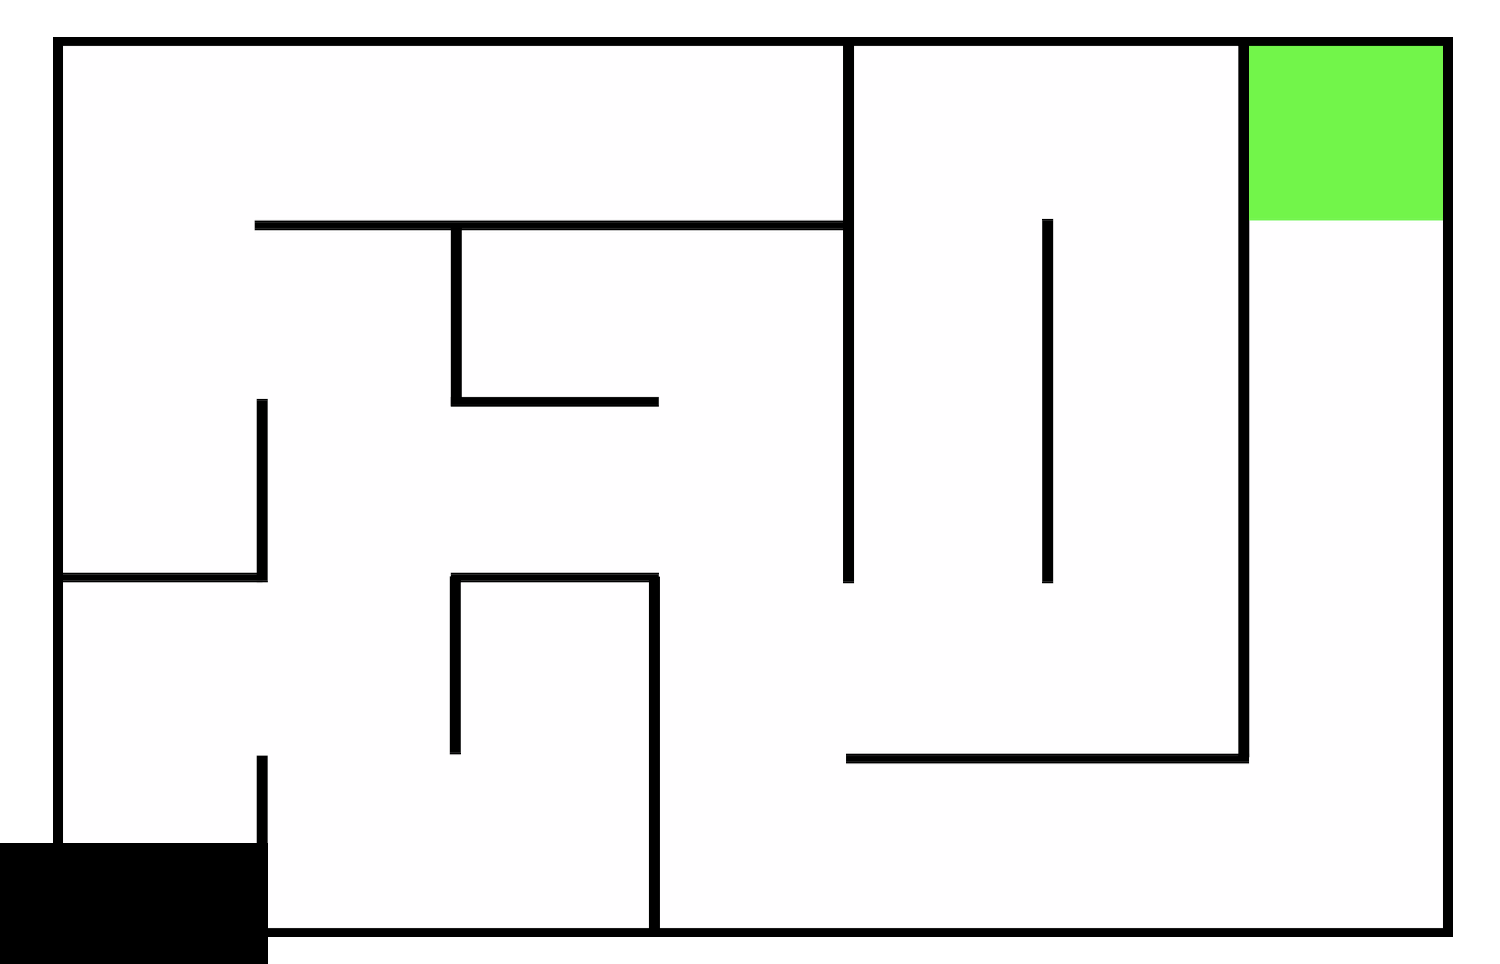
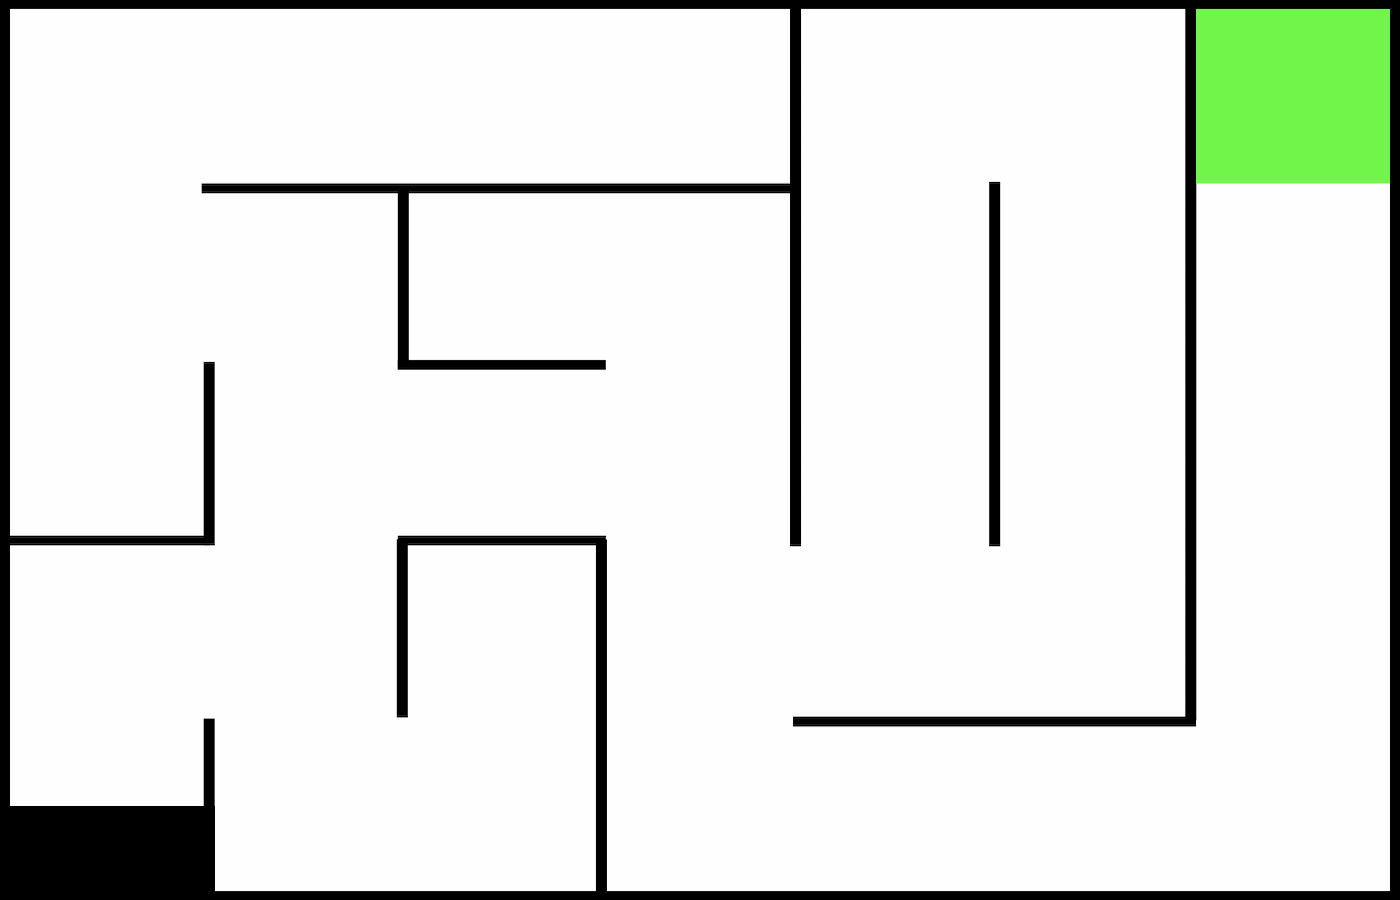
resizing levels almost works

Changed region(s): [[0.0, 0.0, 1.0, 1.0], [0.6757, 0.1867, 0.7371, 0.6222]]

diff --git a/main.py b/main.py
@@ -22,18 +22,11 @@ Width, Height = 1400, 900
 Window = pygame.display.set_mode((Width, Height))
 pygame.display.set_caption("qwack")
 
-
 # move to Level.py
 # duck_image = pygame.image.load('duck.png')  # reference for turret later
 
 def scale_bg(image, window_width, window_height):
-    button_x = int(0.3 * window_width)
-    button_y = int(0.2 * window_height)
-    button_width = int(0.15 * window_width)
-    button_height = int(0.06 * window_height)
-
-    return pygame.transform.scale(image, (window_width, window_height)), button_x, button_y, button_width, button_height
-
+    return pygame.transform.scale(image, (window_width, window_height))
 
 #
 # -----------------------------------------------------------------------------------------------------------------
@@ -42,10 +35,8 @@ def scale_bg(image, window_width, window_height):
 # level selector functions
 def level1():
     print("Level 1 selected")
-    global levela
     global level
     level = Level(1)
-    levela = 1
 
     # testing purposes
     print('img', level.bg)
@@ -55,18 +46,15 @@ def level1():
     print('obstaclelist', level.obstacle_data)
     loadLevel()  # activate the loading screen sequence fade to white
 
-def level2():
-    print("Level 2 selected")
+def levels(level: int):
+    print(f"Level {level} selected")
 
-
-def level3():
-    print("Level 3 selected")
 
 # change screen size
 def screensmall():
     global size, Width, Height, Window
     size = 'small'
-    Width, Height = 1200, 836
+    Width, Height = 1200, 771
     Window = pygame.display.set_mode((Width, Height))
     for i, button in enumerate(buttons):
         button.width = 160
@@ -77,6 +65,7 @@ def screensmall():
             break  # don't reposition screen size buttons
 
 def screenbig():
+
     global size, Width, Height, Window
     size = 'big'
     Width, Height = 1400, 900
@@ -94,7 +83,7 @@ def screenbig():
 # -----------------------------------------------------------------------------------------------------------------
 #
 
-# loading screenx`
+# loading screen
 def loadLevel():
     for i in range(0, 255, 14):  # fade to white since maze is in (vomit) light mode
         Window.fill((i, i, i))
@@ -108,8 +97,8 @@ def loadLevel():
 # initializing buttons
 
 buttons = [Button("Level 1", 120, 220, 200, 50, level1, is_level=True),
-           Button("Level 2", 120, 310, 200, 50, level2, is_level=True),
-           Button("Level 3", 120, 400, 200, 50, level3, is_level=True),
+           Button("Level 2", 120, 310, 200, 50, lambda:levels(2), is_level=True),
+           Button("Level 3", 120, 400, 200, 50, lambda:levels(3), is_level=True),
            Button('small', 400, 100, 200, 50, screensmall, is_level=False),
            Button('big', 700, 100, 200, 50, screenbig, is_level=False)]
 
@@ -129,7 +118,7 @@ FONT2 = pygame.font.Font(None, 24)  # None means default font
 
 def rendertext():
     quacker = FONT.render("quacker", True, "white")  # defining each font
-    desc = FONT2.render("a game by ayaka umbrella fans", True, "grey")
+    desc = FONT2.render("By ayaka umbrella fans— Amanda and Emilia", True, "grey")
     SR = FONT2.render("select screen size", True, "grey")
 
     Window.blit(quacker, (10, 10))  # display text
@@ -144,7 +133,8 @@ def rendertext():
 # Initialize the level
 level = None
 # main game logic, while loop to run everything
-levela = None
+size = 'big'
+
 
 def main():
     bulletslaunched = 0
@@ -184,7 +174,7 @@ def main():
         mouse_pos = pygame.mouse.get_pos()
         if gamemode == 1:  # in the game
             speedmultiplier = 10  # can change!!
-            level.draw(Window)
+            level.draw(Window, size)
 
             # for bullet in Level.bullets:
             #     if bullet.win:

diff --git a/Bullet.py b/Bullet.py
@@ -56,19 +56,24 @@ class Bullet:
         self.x += self.speed_x
         self.y += self.speed_y
 
-    #change collides to bounding box way more efficient
     def collides(self, screen, new_x, new_y):
-        for i in range(int(self.RADIUS/3), self.RADIUS):
-            for j in range(int(self.RADIUS/3), self.RADIUS): #o(n^2) algorithm inneficient :nerd:
-                if (math.sqrt((self.RADIUS - i) ** 2 + (self.RADIUS - j) ** 2)) <= self.RADIUS:
-                    clr = screen.get_at((round(new_x - self.RADIUS + i), round(new_y - self.RADIUS + j)))
-                    if clr == (0, 0, 0):  # Check if the color is black
-                        pygame.mixer.Sound.play(bounce) #this sound gets anoying as shit very fast find another or no sound at all?
-                        pygame.mixer.music.stop()
-                        return True
-                    if clr == (114, 245, 74): #check if bullet touches ending square = win
-                        self.win = True
-                        print('win!!!! :DDD')
+        r_sq = self.RADIUS ** 2
+        for i in range(int(self.RADIUS / 3), self.RADIUS):
+            for j in range(int(self.RADIUS / 3), self.RADIUS):
+                dx = self.RADIUS - i
+                dy = self.RADIUS - j
+                if dx * dx + dy * dy <= r_sq:
+                    px = round(new_x - self.RADIUS + i)
+                    py = round(new_y - self.RADIUS + j)
+                    if 0 <= px < screen.get_width() and 0 <= py < screen.get_height():
+                        clr = screen.get_at((px, py))
+                        if clr == (0, 0, 0):  # Check if the color is black
+                            pygame.mixer.Sound.play(bounce) #this sound gets anoying as shit very fast find another or no sound at all?
+                            pygame.mixer.music.stop()
+                            return True
+                        if clr == (114, 245, 74): #check if bullet touches ending square = win
+                            self.win = True
+                            print('win!!!! :DDD')
         return False
 
     def draw(self, screen):

diff --git a/Level.py b/Level.py
@@ -21,7 +21,6 @@ class Level:
 
     def __init__(self, level_num):
         self.level_num = level_num
-
         # read data from file
         file_name = "data"
         file = open(file_name, "r")
@@ -63,11 +62,13 @@ class Level:
         rotated_rect = rotated_image.get_rect(center=pos)  # Keep the center at the circle's center
         return rotated_image, rotated_rect
 
-    def draw(self, screen):
+    def draw(self, screen, size):
 
-        # car = pygame.transform.scale(self.bg, (Width, Height))
-        car = pygame.transform.scale(self.bg, (1400, 900))  # assume large screen for now
+        car = pygame.transform.scale(self.bg, (1400 if size == 'big' else 1200, 900  if size == 'big' else 771))  # assume large screen for now
         screen.blit(car, (0, 0))
+        if size == 'small':
+            self.playerX = int(self.playerX * (1200 / 1400))
+            self.playerY = int(self.playerY * (771 / 900))
         pygame.draw.circle(screen, 'grey', [int(self.playerX), int(self.playerY)], 30)
 
         # resizing window correctly in levels, size = input variable in function
